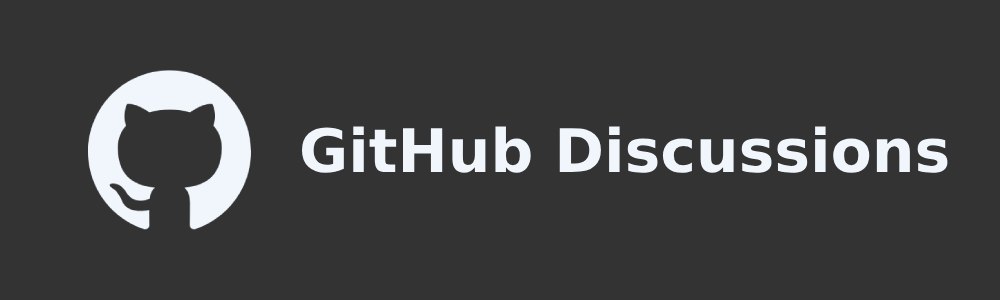
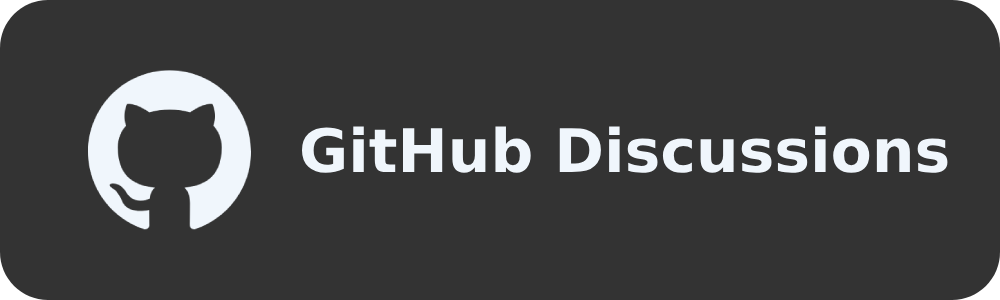
docs: style for social media

diff --git a/README.md b/README.md
@@ -12,7 +12,7 @@
    └─ liubai-web
 ```
 
-`liubai-web` 为前端根目录，在该目录下运行 `pnpm i` 和 `pnpm dev` 即可启动留白前端。
+`liubai-web` 为前端根目录，主要基于 [Vue 3.x](https://vuejs.org/) + [Vite](https://vite.dev/) + [VueUse](https://vueuse.org/) + [TypeScript](https://www.typescriptlang.org/) + [Dexie.js](https://dexie.org/docs/) ...... 等一系列前端工具链构建，在该目录下运行 `pnpm i` 和 `pnpm dev` 即可启动留白前端。
 
 `liubai-laf` 为后端根目录，使用 [Laf](https://github.com/labring/laf) 构建；该目录下的 `cloud-functions/` 存放本项目的云函数。
 
@@ -21,12 +21,18 @@
 
 ## 保持联络 👋
 
-<a href="https://github.com/yenche123/liubai/discussions" title="GitHub Discussions">
-  <img src="./assets/github.png" width="320" style="border-radius: 16px; overflow: hidden;" />
-</a>
+<p>
+  <a href="https://github.com/yenche123/liubai/discussions">
+    <img src="./assets/github.png" width="320" alt="GitHub Discussions" />
+  </a>
+</p>
 
-<img src="./assets/weixin.png" width="320" style="border-radius: 16px; overflow: hidden;" />
+<p>
+  <img src="./assets/weixin.png" width="320" alt="留白记事公众号"/>
+</p>
 
-<a href="https://www.xiaohongshu.com/user/profile/5d1642d80000000011033c24" target="_blank" title="xhs">
-  <img src="./assets/xhs.png" width="320" style="border-radius: 16px; overflow: hidden;" />
-</a>
+<p>
+  <a href="https://www.xiaohongshu.com/user/profile/5d1642d80000000011033c24" alt="xhs">
+    <img src="./assets/xhs.png" width="320" alt="小红书 @your_liubai" />
+  </a>
+</p>
